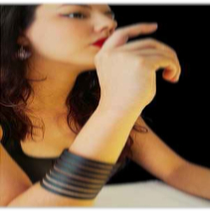
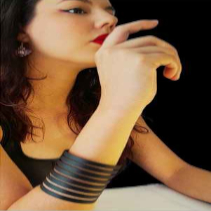
Dos fotos mejoradas

diff --git a/index.html b/index.html
@@ -86,7 +86,7 @@
 					<img src="imagenes/SizeReducidowebp/AccesoriosMedias.webp" class="d-block w-25" alt="Ligeros">
 				</div>
 				<div class="carousel-item">
-					<img src="imagenes/SizeReducidowebp/Pulsera.webp" class="d-block w-25" alt="Pulsera Cuero">
+					<img src="imagenes/SizeReducidowebp/pulseraLeo.webp" class="d-block w-25" alt="Pulsera Cuero">
 				</div>
 				<div class="carousel-item">
 					<img src="imagenes/SizeReducidowebp/PulseraDije.webp" class="d-block w-25" alt="Pulsera Antebrazo con Dije">
